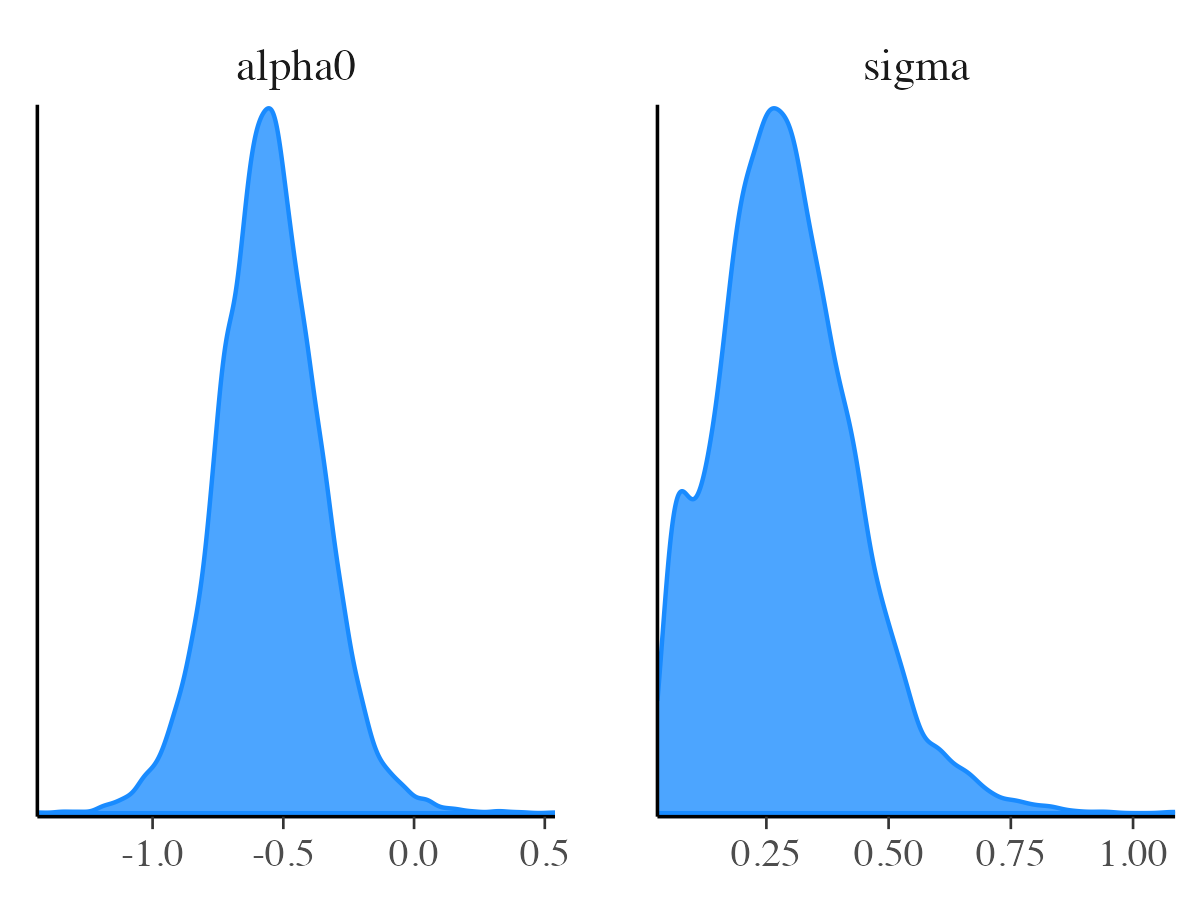
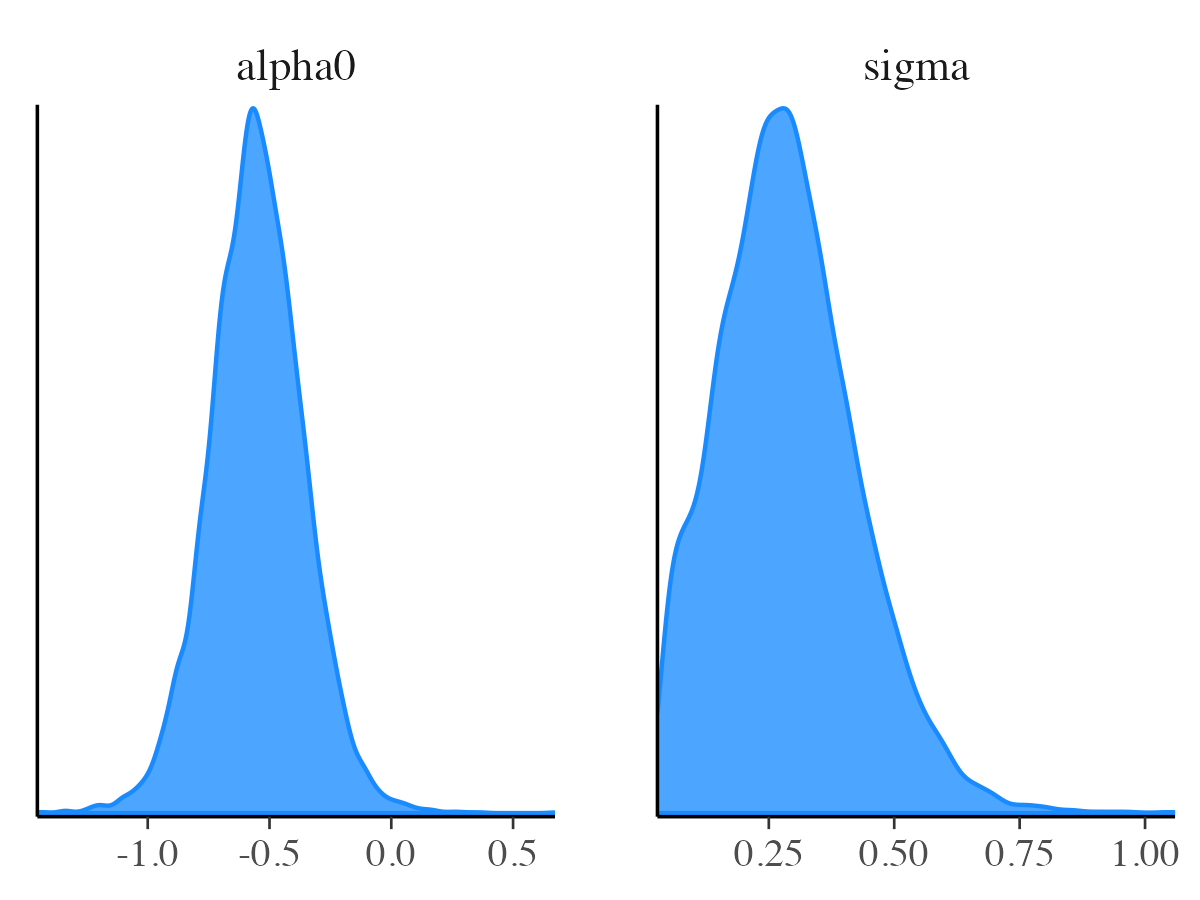
deploy: a67fa1ee2e068972d6e59e90d7b574168fbf5511

diff --git a/articles/rjuliabugs.html b/articles/rjuliabugs.html
@@ -261,16 +261,16 @@ through <code>summary</code> function</p>
 <span><span class="co">#&gt; Summary Statistics:</span></span>
 <span><span class="co">#&gt; </span></span>
 <span><span class="co">#&gt;  parameters      mean     std     mcse ess_bulk ess_tail  rhat ess_per_sec</span></span>
-<span><span class="co">#&gt;         tau 42.837376 98.4590 5.995761    365.9    391.1 1.012          NA</span></span>
-<span><span class="co">#&gt;     alpha12 -0.823870  0.4407 0.007447   3489.3   4325.7 1.000          NA</span></span>
-<span><span class="co">#&gt;      alpha2  1.349569  0.2752 0.004785   3285.7   3917.7 1.001          NA</span></span>
-<span><span class="co">#&gt;      alpha1  0.077620  0.3176 0.005382   3473.0   4102.2 1.001          NA</span></span>
-<span><span class="co">#&gt;      alpha0 -0.547500  0.1959 0.003383   3317.1   4057.4 1.001          NA</span></span>
-<span><span class="co">#&gt;        b[1] -0.199874  0.2687 0.005441   2692.9   3812.3 1.002          NA</span></span>
-<span><span class="co">#&gt;        b[2]  0.008522  0.2240 0.003082   5472.1   4307.9 1.001          NA</span></span>
-<span><span class="co">#&gt;        b[3] -0.202404  0.2348 0.004987   2323.9   3943.2 1.002          NA</span></span>
-<span><span class="co">#&gt;        b[4]  0.274101  0.2641 0.007213   1359.6   4591.4 1.004          NA</span></span>
-<span><span class="co">#&gt;        b[5]  0.115651  0.2483 0.003624   5514.1   4665.8 1.002          NA</span></span>
+<span><span class="co">#&gt;         tau 36.183158 76.5634 5.422204    330.6    284.4 1.015          NA</span></span>
+<span><span class="co">#&gt;     alpha12 -0.830310  0.4383 0.007562   3352.1   4219.6 1.002          NA</span></span>
+<span><span class="co">#&gt;      alpha2  1.356539  0.2773 0.004913   3174.9   3498.8 1.002          NA</span></span>
+<span><span class="co">#&gt;      alpha1  0.085610  0.3196 0.005987   2883.6   3526.2 1.001          NA</span></span>
+<span><span class="co">#&gt;      alpha0 -0.551753  0.1954 0.003518   3049.3   3918.5 1.002          NA</span></span>
+<span><span class="co">#&gt;        b[1] -0.199918  0.2673 0.005946   2114.7   3995.1 1.001          NA</span></span>
+<span><span class="co">#&gt;        b[2]  0.004252  0.2261 0.003030   5726.0   4371.4 1.006          NA</span></span>
+<span><span class="co">#&gt;        b[3] -0.201011  0.2328 0.005163   2103.8   4508.5 1.001          NA</span></span>
+<span><span class="co">#&gt;        b[4]  0.275022  0.2625 0.007127   1345.1   4323.3 1.004          NA</span></span>
+<span><span class="co">#&gt;        b[5]  0.119451  0.2431 0.003792   4361.7   3527.2 1.003          NA</span></span>
 <span><span class="co">#&gt;          ...</span></span>
 <span><span class="co">#&gt;   17 rows omitted</span></span></code></pre></div>
 <p>If we wish to obtain the summary statistics for each saved parameter,
@@ -381,7 +381,7 @@ package:</p>
 <span></span>
 <span><span class="co"># Example: effective sample size</span></span>
 <span><span class="fu">posterior</span><span class="fu">::</span><span class="fu"><a href="https://mc-stan.org/posterior/reference/ess_basic.html" class="external-link">ess_basic</a></span><span class="op">(</span><span class="va">posterior</span><span class="op">$</span><span class="va">params</span><span class="op">[</span>,,<span class="st">"alpha0"</span><span class="op">]</span><span class="op">)</span></span>
-<span><span class="co">#&gt; [1] 3353.23</span></span></code></pre></div>
+<span><span class="co">#&gt; [1] 3084.945</span></span></code></pre></div>
 </div>
 <div class="section level2">
 <h2 id="saving-and-loading-the-rjuliabugs-model">Saving and loading the <code>rjuliabugs</code> model<a class="anchor" aria-label="anchor" href="#saving-and-loading-the-rjuliabugs-model"></a>
